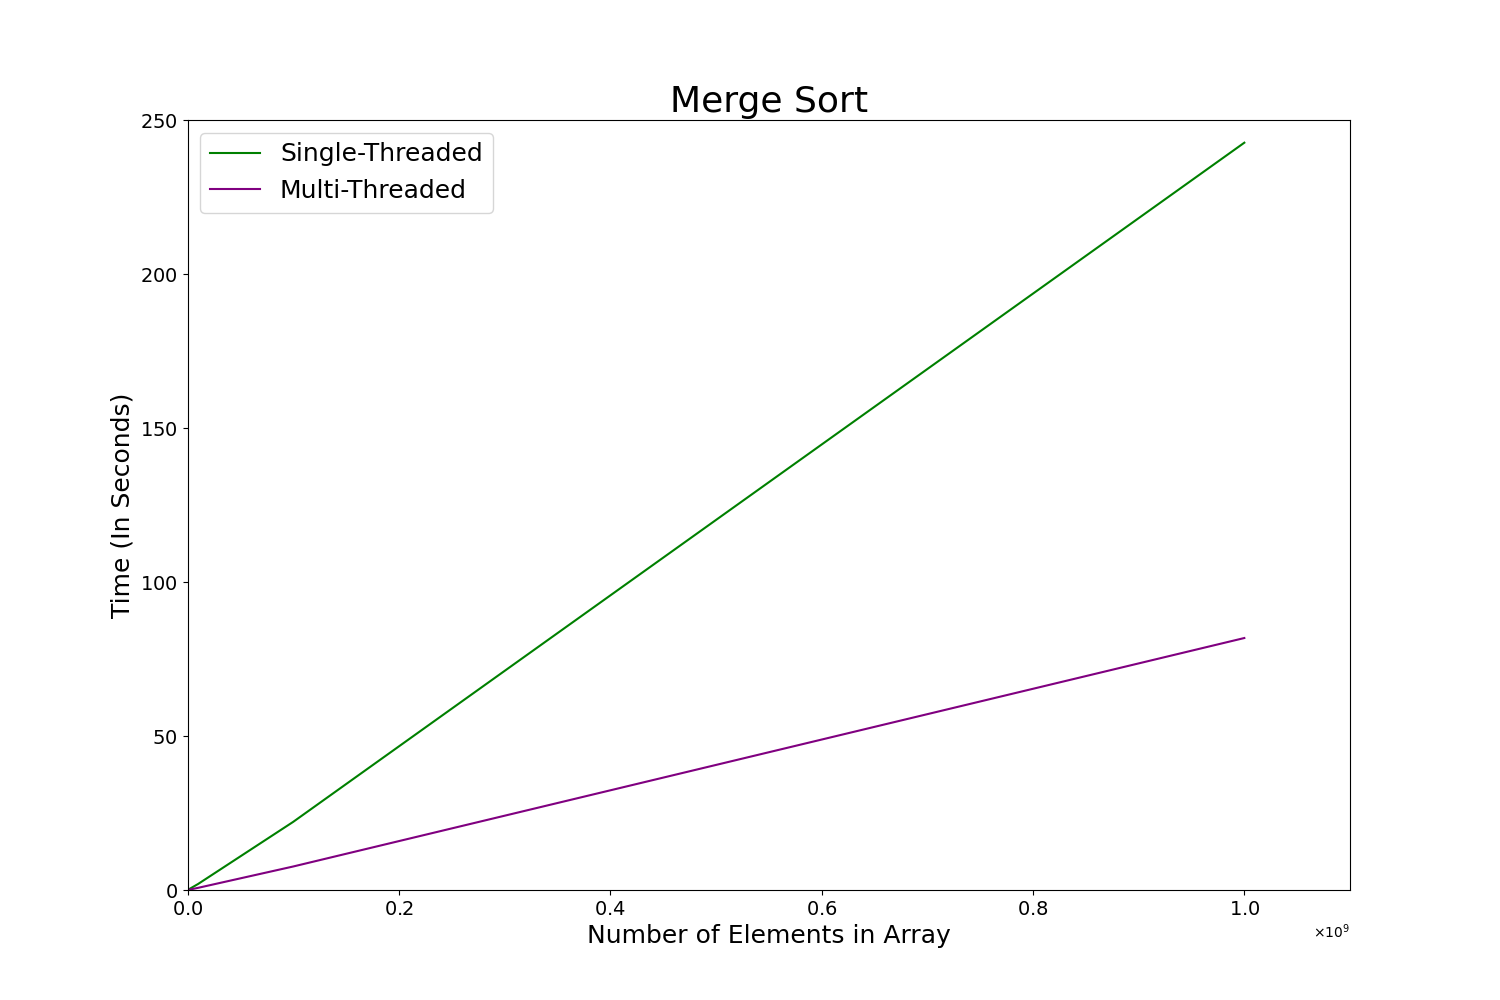
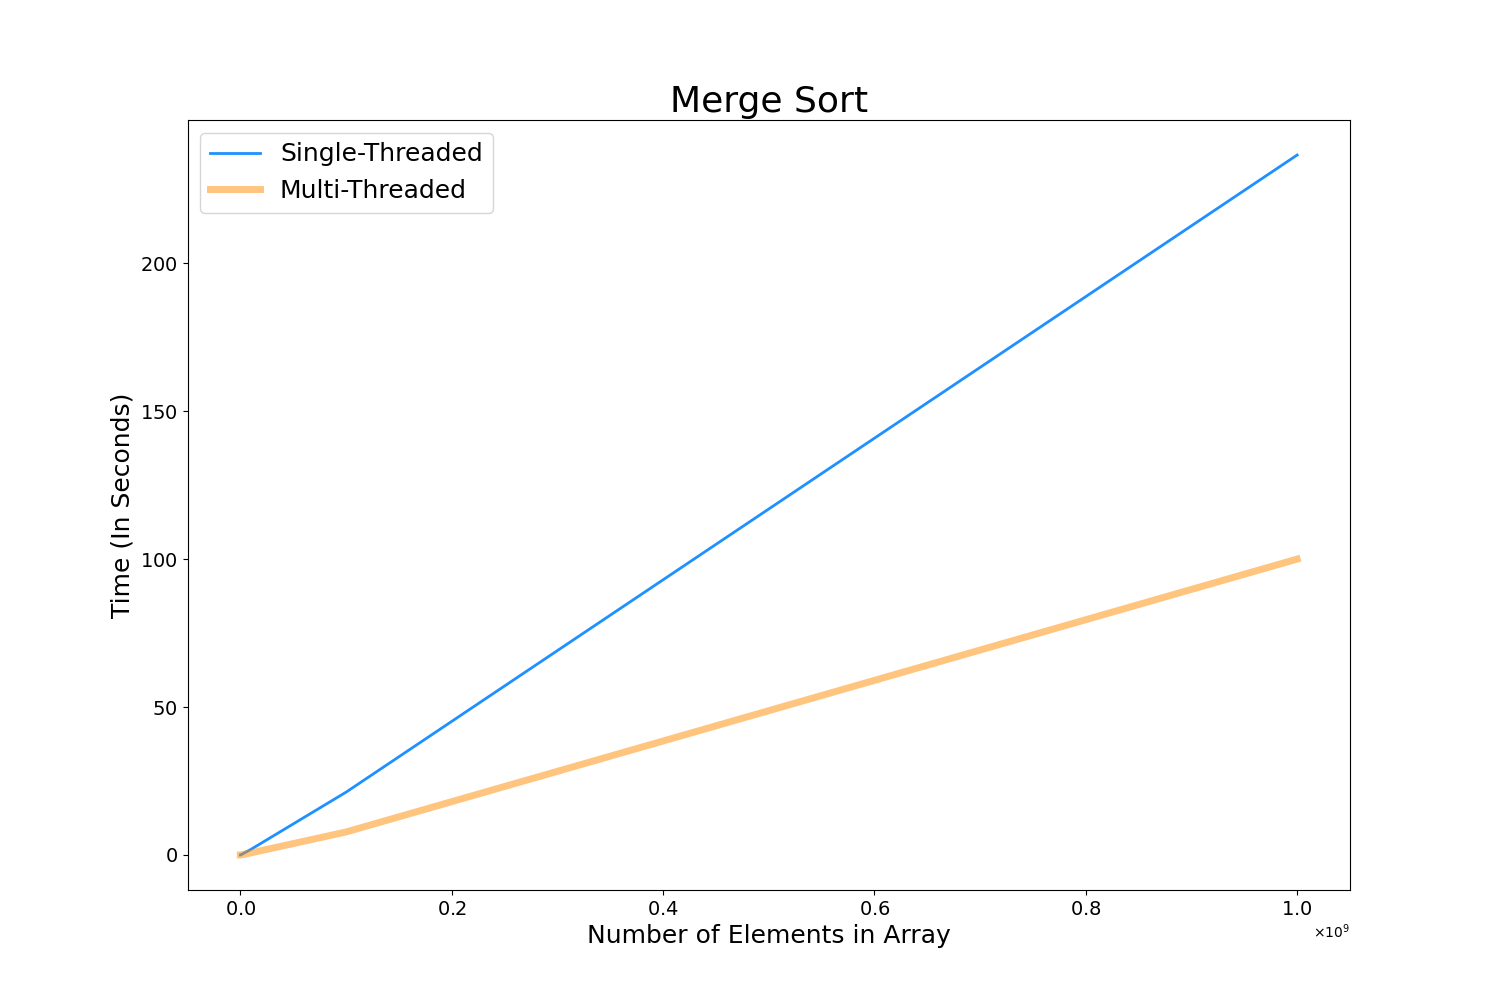
Input feature added

diff --git a/scripts/merge_graph.py b/scripts/merge_graph.py
@@ -2,14 +2,12 @@ import matplotlib.pyplot as plt
 import pandas as pd
 df1=pd.read_csv("../graph/merge-normal-log.csv")
 df2=pd.read_csv("../graph/merge-multithreaded-log.csv")
-ax = df1.plot(x="Array Size",y="Total Time (in s)",label="Single-Threaded",color="green")
-df2.plot(x="Array Size",y="Total Time (in s)",label="Multi-Threaded",color="purple",ax=ax,figsize=(15,10),fontsize=14,title="Merge Sort")
+ax = df1.plot(x="Array Size",y="Total Time (in s)",label="Single-Threaded",color="dodgerblue",alpha=1,linewidth=2)
+df2.plot(x="Array Size",y="Total Time (in s)",label="Multi-Threaded",color="darkorange",alpha=0.5,linewidth=5,ax=ax,figsize=(15,10),fontsize=14,title="Merge Sort")
 plt.ylabel("Time (In Seconds)", fontsize=18)
 plt.xlabel("Number of Elements in Array", fontsize=18)
 ax.title.set_fontsize(26)       #fontsize of "Merge Sort"
 ax.legend(loc=2, prop={'size': 18}) #fontsize of legend "Single threaded etc"
 ax.ticklabel_format(useMathText=True)   #replaces 1e9 with x10^9 
-plt.ylim(0, 250)    #sets limit of y axis
-plt.xlim(0, 1.1e9)  #sets limit of x axis
 plt.savefig("../graph/merge-graph.png")
 plt.show()

diff --git a/scripts/harmonic_graph.py b/scripts/harmonic_graph.py
@@ -2,14 +2,12 @@ import matplotlib.pyplot as plt
 import pandas as pd
 df1=pd.read_csv("../graph/harmonic-normal-log.csv")
 df2=pd.read_csv("../graph/harmonic-multithreaded-log.csv")
-ax = df1.plot(x="Array Size",y="Total Time (in s)",label="Single-Threaded",color="green")
-df2.plot(x="Array Size",y="Total Time (in s)",label="Multi-Threaded",color="purple",ax=ax,figsize=(15,10),fontsize=14,title="Harmonic Progression")
+ax = df1.plot(x="Array Size",y="Total Time (in s)",label="Single-Threaded",color="dodgerblue",alpha=1,linewidth=2)
+df2.plot(x="Array Size",y="Total Time (in s)",label="Multi-Threaded",color="darkorange",alpha=0.5,linewidth=5,ax=ax,figsize=(15,10),fontsize=14,title="Harmonic Progression")
 plt.ylabel("Time (In Seconds)", fontsize=18)
 plt.xlabel("Number of Elements in Array", fontsize=18)
 ax.title.set_fontsize(26)       
 ax.legend(loc=2, prop={'size': 18})
-ax.ticklabel_format(useMathText=True) 
-plt.ylim(0, 3)
-plt.xlim(0, 1.1e9)
+ax.ticklabel_format(useMathText=True)
 plt.savefig("../graph/harmonic-graph.png")
 plt.show()

diff --git a/scripts/quick_graph.py b/scripts/quick_graph.py
@@ -2,14 +2,12 @@ import matplotlib.pyplot as plt
 import pandas as pd
 df1=pd.read_csv("../graph/quick-normal-log.csv")
 df2=pd.read_csv("../graph/quick-multithreaded-log.csv")
-ax = df1.plot(x="Array Size",y="Total Time (in s)",label="Single-Threaded",color="green")
-df2.plot(x="Array Size",y="Total Time (in s)",label="Multi-Threaded",color="purple",ax=ax,figsize=(15,10),fontsize=14,title="Quick Sort")
+ax = df1.plot(x="Array Size",y="Total Time (in s)",label="Single-Threaded",color="dodgerblue",alpha=1,linewidth=2)
+df2.plot(x="Array Size",y="Total Time (in s)",label="Multi-Threaded",color="darkorange",alpha=0.5,linewidth=5,ax=ax,figsize=(15,10),fontsize=14,title="Quick Sort")
 plt.ylabel("Time (In Seconds)", fontsize=18)
 plt.xlabel("Number of Elements in Array", fontsize=18)
 ax.title.set_fontsize(26)  
 ax.legend(loc=2, prop={'size': 18})
 ax.ticklabel_format(useMathText=True)
-plt.ylim(0, 200)    
-plt.xlim(0, 1.1e9)
 plt.savefig("../graph/quick-graph.png")
 plt.show()

diff --git a/multithreaded/quicksort_parallel.c b/multithreaded/quicksort_parallel.c
@@ -34,10 +34,10 @@ int main(int argc, char **argv)
     {
         arr[i] = rand();
     }
-    printf("Unsorted\n");
+    // printf("Unsorted Array\n");
     // printarray(arr);
     quickSort(arr,0,N-1);
-    printf("Sorted\n");
+    // printf("Sorted Array\n");
     // printarray(arr);
     free(arr);
 }
@@ -48,7 +48,7 @@ void *quickSortThreadFunc(void *arg)
 {
     // typeCasting
     ThreadArg *qarg = (ThreadArg *)arg;
-    printf("\n~Thread created~\n");
+    // printf("\n~Thread created~\n");
     quickSort(qarg->arr, qarg->start, qarg->end);
     return NULL;
 }

diff --git a/multithreaded/mergesort_parallel.c b/multithreaded/mergesort_parallel.c
@@ -34,7 +34,7 @@ int main(int argc, char **argv)
     {
         array[i] = rand();
     }
-    printf("Unsorted Array:\n");
+    // printf("Unsorted Array:\n");
     // printarray();
 
     // array for thread ids and thread parameters are declared
@@ -84,8 +84,8 @@ int main(int argc, char **argv)
         merge(tplist[0].start, tplist[i].start - 1, tplist[i].end);
     }
 
-    // Print sorted array
-    printf("Sorted Array:\n");
+    // //Print sorted array
+    // printf("Sorted Array:\n");
     // printarray();
     free(array);
     return 0;

diff --git a/normal/mergesort.c b/normal/mergesort.c
@@ -17,10 +17,10 @@ int main(int argc, char **argv)
     {
         array[i] = rand();
     }
-    printf("Unsorted Array:\n");
+    // printf("Unsorted Array:\n");
     // printarray(array);
     mergesort(0, N - 1, array);
-    printf("\nSorted Array:\n");
+    // printf("\nSorted Array:\n");
     // printarray(array);
     free(array);
     return 0;

diff --git a/normal/quicksort.c b/normal/quicksort.c
@@ -18,10 +18,10 @@ int main(int argc, char **argv)
   {
     array[i] = rand();
   }
-  printf("Unsorted Array:\n");
+  // printf("Unsorted Array:\n");
   // printarray(array);
   quicksort(array, 0, N - 1);
-  printf("\nSorted Array:\n");
+  // printf("\nSorted Array:\n");
   // printarray(array);
   free(array);
   return 0;

diff --git a/multithreaded/harmonic_parallel.c b/multithreaded/harmonic_parallel.c
@@ -67,7 +67,7 @@ int main(int argc, char **argv)
     {
         pthread_join(tid[i], NULL);    
     }
-    //print the series
+    // //print the series
     // for(long i=0;i<N;i++)
     // {
     //     printf("%lf\n",arr[i]);
